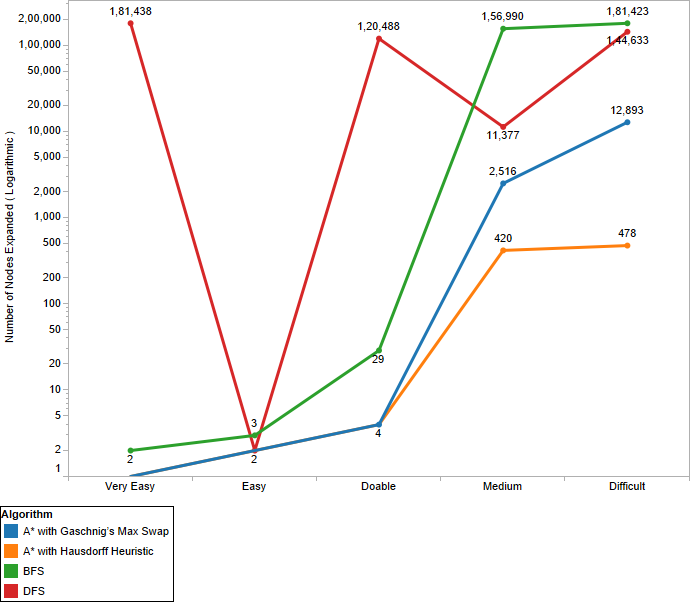
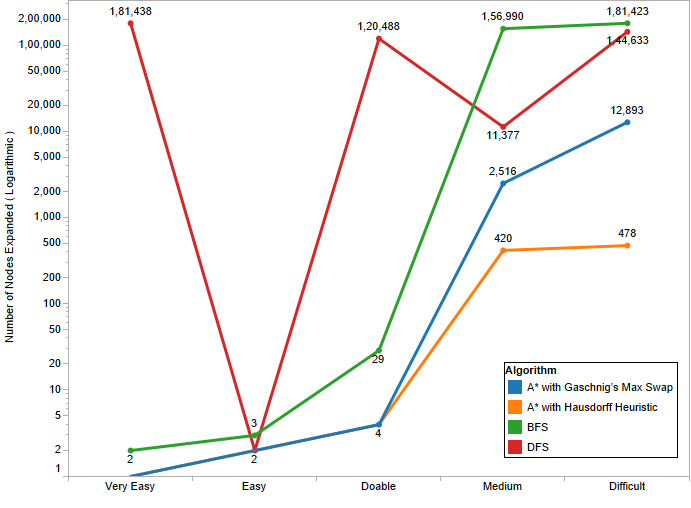
Added Title with Images formatting

diff --git a/New_Report/author.tex b/New_Report/author.tex
@@ -11,11 +11,13 @@
 \usepackage{array}
 \usepackage{tabularx}
 \usepackage{subcaption}
+\usepackage{makecell}
 \def\UrlFont{\rmfamily}
+
 
 \begin{document}
 \mainmatter
-\title{Still thinking of a good title}
+\title{Image difference as a heuristic for solving 8-puzzle problem}
 \subtitle{CS7IS2 Project (2019/2020)}
 \author{Kulkarni Shravani Deepak, Kapoor Shuchita, Asolkar Jayprakash, Chauhan Paritosh}
 
@@ -41,20 +43,15 @@ The abstract should summarize the contents of the report and should contain at l
 \noindent The paper is structured as follows: section 2 discusses prior literature outlining the algorithms used in those papers,  section 3 defines the 8-puzzle problem in detail and describes the algorithms used, section 4 shows the results and comparisons of these algorithms.
 
 \section{Related Work}
-\noindent According to the Pearl, et. Al. , the environment that provides a platform for the search is known as Problem Space. Each of these problem spaces consist a set of states and operators. For instance, in terms of 8 puzzle, states can be defined as the different possible arrangement from the initial configuration of the numbers while operators are the possible directions, i.e. Left, Right, Up or Down. The problem instance can be defined as the problem space that consists of initial state and the goal state with a solution. The solution in this case is defined as the set of operators that changes the state from initial to the goal state. To provide the same perspective in terms of visualization, the problem space is considered as a graph (generally a tree) where each state is defined by the node and each operator is illustrated as an edge between the nodes. \\
+\noindent According to the Pearl, et. Al. , the environment that provides a platform for the search is known as Problem Space. Each of these problem spaces consist a set of states and operators. For instance, in terms of 8 puzzle, states can be defined as the different possible arrangement from the initial configuration of the numbers while operators are the possible directions, i.e. Left, Right, Up or Down. The problem instance can be defined as the problem space that consists of initial state and the goal state with a solution. The solution in this case is defined as the set of operators that changes the state from initial to the goal state. To provide the same perspective in terms of visualization, the problem space is considered as a graph (generally a tree) where each state is defined by the node and each operator is illustrated as an edge between the nodes. In searching problem space, there are many methods than can be applied to get to the goal state. We begin with the BruteForce search methods which includes Breadth-First Search, Depth-First Search. This will be followed by a deeper study on the Heuristic Search that includes the A* algorithm.\\
 
-\noindent In searching problem space, there are many methods than can be applied to get to the goal state. We begin with the BruteForce search methods which includes Breadth-First Search, Depth-First Search. This will be followed by a deeper study on the Heuristic Search that includes the A* algorithm.
+\noindent BFS is one of the brute-force algorithms that does not require full knowledge of the state space to arrive at the goal. This uninformed search algorithm generates its state space by registering all the nodes that have been traversed in the search tree. For instance, the initial state in the 8-Puzzle problem is considered as the root node and offspring nodes are generated in such a way that the neighbouring nodes represent a single move or state change from the parent. This strategy employs the Breadth-First traversal approach, where the adjacent neighbours are traversed to find the optimum state. The lower levels are generated and traversed only if the required state is not reached on the current level of the tree. This can be an evidence that BFS always provides an optimized solution for a problem. BFS uses FIFO (First in First out) principle for performing search. The time complexity in finding the optimum state is directly proportional to the size of the search space, i.e O($b^{d}$). As all states needs to be stored to generate the next level, higher space complexity is the disadvantage of BFS algorithm.\\
 
-\subsection{Breadth First Search}
-\noindent BFS is one of the brute-force algorithms that does not require full knowledge of the state space to arrive at the goal. This uninformed search algorithm generates its state space by registering all the nodes that have been traversed in the search tree. For instance, the initial state in the 8-Puzzle problem is considered as the root node and offspring nodes are generated in such a way that the neighbouring nodes represent a single move or state change from the parent. This strategy employs the Breadth-First traversal approach, where the adjacent neighbours are traversed to find the optimum state. The lower levels are generated and traversed only if the required state is not reached on the current level of the tree. This can be an evidence that BFS always provides an optimized solution for a problem. BFS uses FIFO (First in First out) principle for performing search. The time complexity in finding the optimum state is directly proportional to the size of the search space, i.e O($b^{d}$). As all states needs to be stored to generate the next level, higher space complexity is the disadvantage of BFS algorithm.
+\noindent In comparison to BFS, the idea of DFS is to keep expanding the state till it reaches the optimal solution or backtracking to the next nearest possible state. The algorithm employs LIFO (Last in First Out) approach in order to search the desired state in the search space. The time complexity does not change and remains same as in BFS O($b^{d}$), the only advantage of using this over BFS is in terms of space complexity, where only current search path is being saved (O(d)). This algorithm lacks the ability to provide an optimal solution in the given time and hence sometimes must be provided with an explicit cut-off depth.  The tree search version of DFS also lacks completeness due to possible infinite loops[1].\\
 
-\subsection{Depth First Search}
-\noindent In comparison to BFS, the idea of DFS is to keep expanding the state till it reaches the optimal solution or backtracking to the next nearest possible state. The algorithm employs LIFO (Last in First Out) approach in order to search the desired state in the search space. The time complexity does not change and remains same as in BFS O($b^{d}$), the only advantage of using this over BFS is in terms of space complexity, where only current search path is being saved (O(d)). This algorithm lacks the ability to provide an optimal solution in the given time and hence sometimes must be provided with an explicit cut-off depth.  The tree search version of DFS also lacks completeness due to possible infinite loops[1].
+\noindent A* is a form of informed search algorithm, the term “informed” signifies that the algorithm is made aware about the state space in the notion of heuristic function. The search method relies on finding the amount of match between a node and the goal state. This is quantified using the heuristic function which is basically the difference between the current state from the goal state. The higher value of this function signifies lesser relevancy of that state in reaching towards the goal. The algorithm uses the Breadth-First Search horizontal expansion technique but limits these expansions only to those node who have the smaller heuristic function value and also considers the path cost to the goal. A* performs better in terms of space complexity when compared to DFS  and  improves on the time complexity  when compared to BFS. The only disadvantage of using this algorithm is the computational overhead that is required for calculating the heuristic value along with the path cost of each node that is considered.\\
 
-\subsection{A* Search }
-\noindent A* is a form of informed search algorithm, the term “informed” signifies that the algorithm is made aware about the state space in the notion of heuristic function. The search method relies on finding the amount of match between a node and the goal state. This is quantified using the heuristic function which is basically the difference between the current state from the goal state. The higher value of this function signifies lesser relevancy of that state in reaching towards the goal. The algorithm uses the Breadth-First Search horizontal expansion technique but limits these expansions only to those node who have the smaller heuristic function value and also considers the path cost to the goal. A* performs better in terms of space complexity when compared to DFS  and  improves on the time complexity  when compared to BFS. The only disadvantage of using this algorithm is the computational overhead that is required for calculating the heuristic value along with the path cost of each node that is considered. \\
-
-\noindent To solve the 8-puzzle problem, we have chosen to implement Breadth-First Search, Depth-First Search, A* algorithms. With these selected algorithms we can compare both uninformed and informed search techniques in terms of completeness, space-time complexity, and optimality. Although the exhaustive traversal method of both breadth-first and depth-first searches do not promise optimality, they can act as a baseline for comparison with other algorithms in terms of improvements. Whereas the A* algorithm makes use of heuristics to make informed search traversal and provides an optimal solution. With an evaluation function that combines both the cost to reach the current state and estimated cost to reach the goal from the current state, the A* algorithm is both optimal and complete. Our intention to select the above algorithms is to evaluate the performance of these basic search algorithms on a real-world AI problem such as the 8-puzzle and compare various aspects of the algorithms.
+\noindent To solve the 8-puzzle problem, we have chosen to implement Breadth-First Search, Depth-First Search, A* algorithms. With these selected algorithms we can compare both uninformed and informed search techniques in terms of completeness, space-time complexity, and optimality. Although the exhaustive traversal method of both breadth-first and depth-first searches do not promise optimality, they can act as a baseline for comparison with other algorithms in terms of improvements. Whereas the A* algorithm makes use of heuristics to make informed search traversal and provides an optimal solution. With an evaluation function that combines both the cost to reach the current state and estimated cost to reach the goal from the current state, the A* algorithm is both optimal and complete. Our intention to select the above algorithms is to evaluate the performance of these basic search algorithms on a real-world AI problem such as the 8-puzzle and compare various aspects of the algorithms.\\
 
 \noindent For the study of A* algorithm we have compared Gaschnig’s Max Swap and Hausdorff distance heuristic evaluation functions. Huang-Chia Shih et al. (2019) have used the Hausdorff distance to solve the problem of Jigsaw Puzzle for reconstruction without template image.The same can be applied to the 8 puzzle problem involving images of the state space. Gaschnig's evaluation function calculates number of tiles to be shifted to attain goal state if any tile could be swapped with empty tile.
 
@@ -136,7 +133,7 @@ The abstract should summarize the contents of the report and should contain at l
 \noindent By applying this algorithm (Algorithm 2) to the given figure (fig 1), the stack variable is initialized with [0,8,7,6,5,4,3,2,1] (State A), which is the initial state and where 0 represents blank. Since this is the only entry in the stack, the node variable is initialized with the value and added to the explored list. Since this state is not the goal state, we expand it to get states B and C (fig 2) and store the reversed list in neighbors (consisting of state C and B). Thus, while appending the states, state B is the last node which is appended in the stack and explored list. Therefore, when we pop an item from the stack, we get state B as the node. Now, while expanding this node, we get state D and E, which is reversed and appended to stack and explored list. Thus, the stack (consisting of states C, E, D) contains the last node as state D. The next time when we pop an item from the stack, we get state D as the node, which is expanded and processed. In this way, the DFS algorithm analyzes nodes down the depth of the search graph. 
 
 \subsection{A*}
-If we apply the algorithm (Algorithm 3)  on the given figure (fig 1b), the heap queue and the heap entry list is initialized with the initial state ([0,8,7,6,5,4,3,2,1] (State A) and 0 represents blank tile), the cost of the path (which is 0 initially), the heuristic of the state. Two heuristic measures have been used in this algorithm - Gaschnig’s Max Swap and Hausdorff distance. In the Gaschnig’s Max Swap methodology, the heuristic measure depicts how many moves are required for every tile to reach the goal state.
+If we apply the algorithm (Algorithm 3)  on the given figure (fig 1b), the heap queue and the heap entry list is initialized with the initial state ([0,8,7,6,5,4,3,2,1] (State A) and 0 represents blank tile), the cost of the path (which is 0 initially), the heuristic of the state. Two heuristic measures have been used in this algorithm - Gaschnig’s Max Swap and Hausdorff distance. In the Gaschnig’s Max Swap methodology, the heuristic measure depicts how many moves are required for every tile to reach the goal state. So, for the initial state, tile numbered 1 needs three moves to reach the goal position, and tile numbered 2 also needs three moves to reach the goal state and so on. Thus, the total heuristic of the initial state is 16 (1+2+...). 
 \setlength{\intextsep}{3pt}
 \begin{algorithm}[H]
 	\SetAlgoLined
@@ -178,33 +175,32 @@ If we apply the algorithm (Algorithm 3)  on the given figure (fig 1b), the heap 
 	\caption{A*}
 \end{algorithm}
 
-\noindent So, for the initial state, tile numbered 1 needs three moves to reach the goal position, and tile numbered 2 also needs three moves to reach the goal state and so on. Thus, the total heuristic of the initial state is 16 (1+2+...).
 \noindent In the Hausdorff distance methodology, the images of the current state and goal state are compared to see how far the state is from the goal state. For generation of images of the state space we used images of numbers from 0 to 9 from the mnist  dataset.The image\_generator() function takes array of the state as input to generate corresponding combined image of mnist numbers. We used the directed\_hausdorff from the scipy library to calculate the distance between the current state and goal state. Since the values for all the intermediate states were between 800-900, we scaled this distance by multiplying it with the previous measure. Since this is the only entry in the heap, the node variable gets initialized with this state and added to the explored list. Since this state is not the goal state, we expand it to get states B and C (fig 2) as neighbors. If these states are not present in the explored list, they are added to the heap queue, heap entry list and explored list. While appending these states in the heap queue, the states are sorted in ascending order according to their heuristic measure. Since both the states have the same heuristic value (18), state B will be chosen to process further. If these states are present in the explored list and their heuristic measure is less than their previous measure, then the state is replaced with its current values in the heap queue and heap entry list. Also, the elements in the heap queue are sorted in ascending order. In this way, A* always takes the state which has the lowest heuristic measure. 
 
 \section{Experimental Results}
-\noindent Few metrics are used for the measurement of the performance of the search algorithms. The number of nodes expanded is one of the parameters which measures the  expanded nodes to get the states after applying the four moves. The cost of the path is the number of steps/moves taken for reaching the goal state. Apart from this, running time is also used to measure the efficiency of the algorithm. For calculating the running time, we use a timer which starts before the execution begins and stops after the execution ends. These metrics are evaluated for all of the five start states with the mentioned difficulty levels showcased in Table 1. The results are obtained for BFS, DFS and A* (with both heuristics) algorithms. The results are showcased in Fig 3 and Fig 4. We choose the BFS, DFS and A* with Gaschnig's max swap heuristic is used as a baseline for our evaluation. \\
+\noindent Few metrics are used for the measurement of the performance of the search algorithms. The number of nodes expanded is one of the parameters which measures the  expanded nodes to get the states after applying the four moves. The cost of the path is the number of steps/moves taken for reaching the goal state. Apart from this, running time is also used to measure the efficiency of the algorithm. For calculating the running time, we use a timer which starts before the execution begins and stops after the execution ends. These metrics are evaluated for all of the five start states with the mentioned difficulty levels showcased in Table 1. The results are obtained for BFS, DFS and A* (with both heuristics) algorithms. The results are showcased in Fig 3 and Fig 4. We choose the BFS, DFS and A* with Gaschnig's max swap heuristic is used as a baseline for our evaluation.\\
 
-\noindent As shown in figure 3, the number of nodes expanded for A* with both the heuristics is equal for very easy, easy and doable start states. However, for the medium and difficult start state, the number of nodes expanded has drastically decreased for A* with Hausdorff distance. For difficult start state, only 470 nodes are expanded for A* with Hausdorff distance as compared to 12,893 nodes for A* with Gaschnig's Max Swap. Also, the number of nodes expanded with all the start states (except easy) for A* with Hausdorff distance is less than the number of nodes for BFS and DFS. \\
-
-\noindent It can be seen in figure 4 that the running time for A* with Hausdorff distance is greater than BFS and A* with Gaschnig's Max Swap for all the start states. However, as compared to DFS,  A* with Hausdorff distance takes lesser time for very easy and doable start states.
-
-\begin{figure}[H]
+\setlength{\intextsep}{5pt}
+\begin{figure}
 	\centering
-	\begin{minipage}[b]{0.5\textwidth}
+	\begin{minipage}[b]{0.47\textwidth}
 		\includegraphics[width=\textwidth]{Images/Nodes_expanded.png}
-		\caption{Nodes expanded for each algorithm}
-	\end{minipage}
-	\hfill
-	\begin{minipage}[b]{0.4\textwidth}
+		\caption{Nodes expanded}
+	\end{minipage}\hfill
+	\begin{minipage}[b]{0.47\textwidth}
 		\includegraphics[width=\textwidth, height=4cm]{Images/RunningTime.png}
 		\caption{Run Time}
 	\end{minipage}
 \end{figure}
 
+\noindent As shown in figure 3, the number of nodes expanded for A* with both the heuristics is equal for very easy, easy and doable start states. However, for the medium and difficult start state, the number of nodes expanded has drastically decreased for A* with Hausdorff distance. For difficult start state, only 470 nodes are expanded for A* with Hausdorff distance as compared to 12,893 nodes for A* with Gaschnig's Max Swap. Also, the number of nodes expanded with all the start states (except easy) for A* with Hausdorff distance is less than the number of nodes for BFS and DFS.
+
+\noindent It can be seen in figure 4 that the running time for A* with Hausdorff distance is greater than BFS and A* with Gaschnig's Max Swap for all the start states. However, as compared to DFS,  A* with Hausdorff distance takes lesser time for very easy and doable start states.
+
 \noindent In terms of the cost of the path, we observed that BFS and A* with Gaschnig's Max Swap took an equal number of steps to reach the goal state. Figure 5 depicts the cost of the path where A* with Hausdorff distance took the same number of steps as BFS and A* with Gaschnig's Max Swap for very easy, easy and doable start states.  But it took more steps than these two algorithms for medium and difficult start states. In comparison to DFS, it performed better for doable, medium and difficult states.
 
 \begin{table}
-	\begin{minipage}[b]{0.35\textwidth}
+	\begin{minipage}[b]{0.30\textwidth}
 		\caption{Difficulty levels}
 		\centering
 		\begin{tabularx}{\textwidth} { 
@@ -214,19 +210,19 @@ If we apply the algorithm (Algorithm 3)  on the given figure (fig 1b), the heap 
 			\hline
 			{\bf Difficulty level} & {\bf Start state}  \\
 			\hline
-			Very Easy  & [1, 0, 2, 3, 4, 5, 6, 7, 8] \\
+			Very Easy  & \makecell{[1, 0, 2, \\ 3, 4, 5, \\ 6, 7, 8]} \\
 			\hline
-			Easy  & [3, 1, 2, 6, 4, 5, 0, 7, 8] \\
+			Easy  & \makecell{[3, 1, 2, \\ 6, 4, 5, \\ 0, 7, 8]} \\
 			\hline
-			Doable  & [3, 1, 2, 6, 4, 5, 7, 8, 0] \\
+			Doable  & \makecell{[3, 1, 2, \\6, 4, 5, \\7, 8, 0]} \\
 			\hline
-			Medium  & [7, 6, 0, 5, 8, 1, 4, 3, 2] \\
+			Medium  & \makecell{[7, 6, 0, \\5, 8, 1, \\4, 3, 2]} \\
 			\hline
-			Difficult  & [0, 8, 7, 6, 5, 4, 3, 2, 1] \\
+			Difficult  & \makecell{[0, 8, 7, \\6, 5, 4, \\3, 2, 1]} \\
 			\hline
 		\end{tabularx}
 	\end{minipage}\hfill
-	\begin{minipage}{0.6\textwidth}
+	\begin{minipage}{0.65\textwidth}
 		\centering
 		\frame{\includegraphics[width=\textwidth,keepaspectratio]{Images/costofpath.png}}
 		\captionof{figure}{Cost of Path}
@@ -237,7 +233,7 @@ If we apply the algorithm (Algorithm 3)  on the given figure (fig 1b), the heap 
 \noindent  The analysis shows that A* with Hausdorff distance expands the least number of nodes as compared to all the baselines. However, it takes a larger running time because of the computations involved in image generation and image comparison. It was also observed that the cost of the path was more for this method as compared to BFS and A* with Gaschnig's Max Swap since it selects based on the newer heuristic value. Thus, this type of heuristic can be probably used in scenarios where image comparison is done such as solving jigsaw puzzles.
 
 \section{Conclusions}
-In this research, we applied BFS, DFS and A* algorithms to the 8-puzzle problem. We compared metrics such as number of expanded nodes, cost of the path and running time of the algorithms. A* algorithm outperforms the other two in most of these metrics. The comparison of heuristics on image puzzle has provided important insights about the practical application of Gaschnig's Max Swap and Hausdorff distance. Hausdorff distance evaluation function has shown promising results in our experiments and needs further research.
+In this research, we applied BFS, DFS and A* algorithms to the 8-puzzle problem. We compared metrics such as the number of expanded nodes, cost of the path and running time of the algorithms. The A* algorithm outperforms the other two in most of these metrics. The comparison of heuristics on image puzzle has provided important insights about the practical application of Gaschnig's Max Swap and Hausdorff distance. Hausdorff distance evaluation function has shown promising results in our experiments and needs further research.
 
 \begin{thebibliography}{6}
 %
